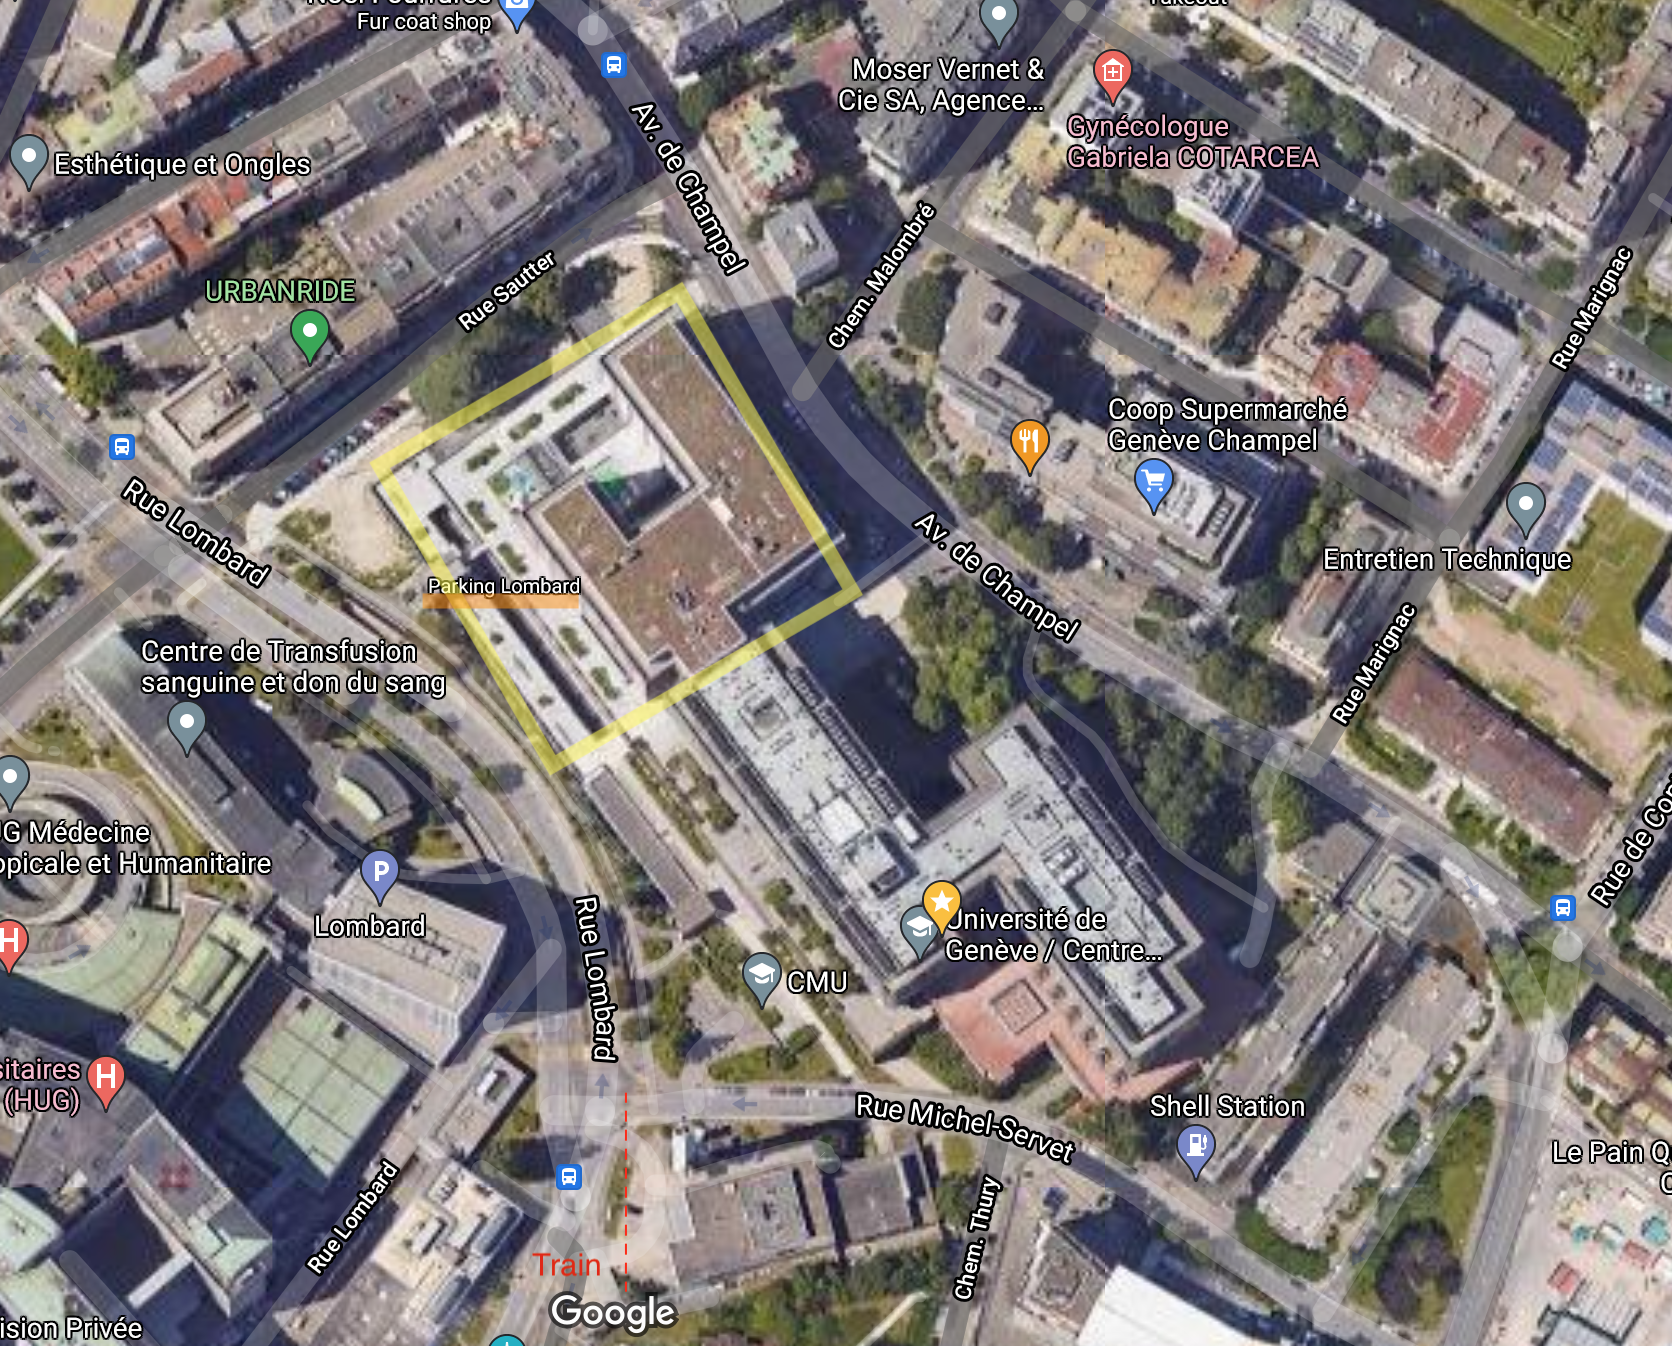
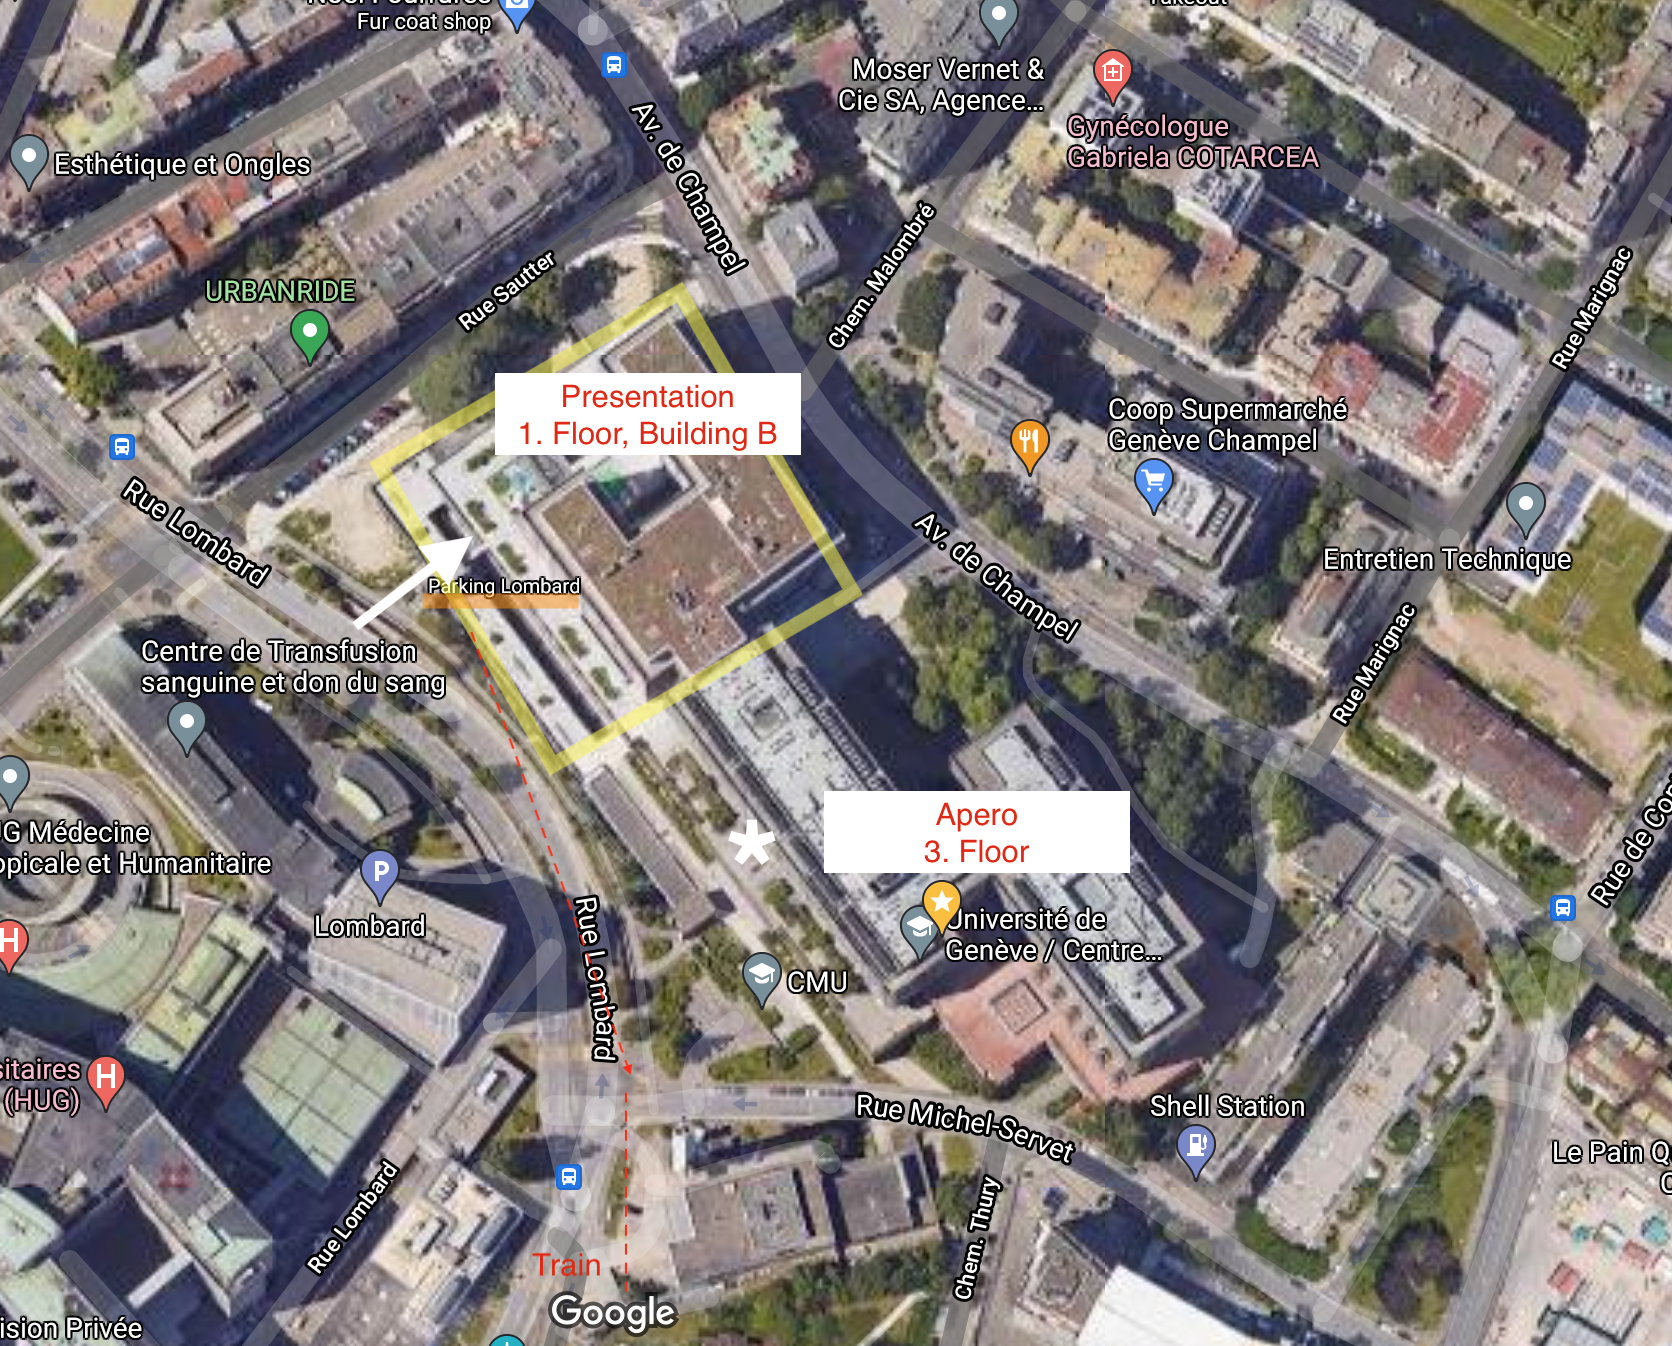
deployed

diff --git a/talk/my-phd-defence/index.html b/talk/my-phd-defence/index.html
@@ -831,6 +831,7 @@ Rue Michel-Servet 1,<br>
 <p><a href="https://www.google.com/maps/place/Section&#43;Des&#43;Sciences&#43;Pharmaceutiques/@46.1944357,6.1496421,295m/data=!3m2!1e3!4b1!4m5!3m4!1s0x478c7b2cc9e0308b:0xcd4cb7bc26311978!8m2!3d46.1943481!4d6.1505779" target="_blank" rel="noopener">Google Maps</a></p>
 <p>L&rsquo;auditoire Renold: 1st floor (B01.2426).<br>
 Apéro: 3d floor, on the side facing Rue Lombard.</p>
+<p>Easiest is to enter at the entrance near the Parking Lombard (orange highlight). For those arriving by train. The train stop &ldquo;Genève-Champel&rdquo; is 3 min away as indicated.</p>
 <h2 id="official-phd-examination">Official PhD examination</h2>
 <p>If you wish, it is still possible to join virtually or even in person the official defence that will be held on 31.8 at 10:30 - 11:00 (CET).
 The presentation will be more adapted for an audience knowing the subject.</p>
